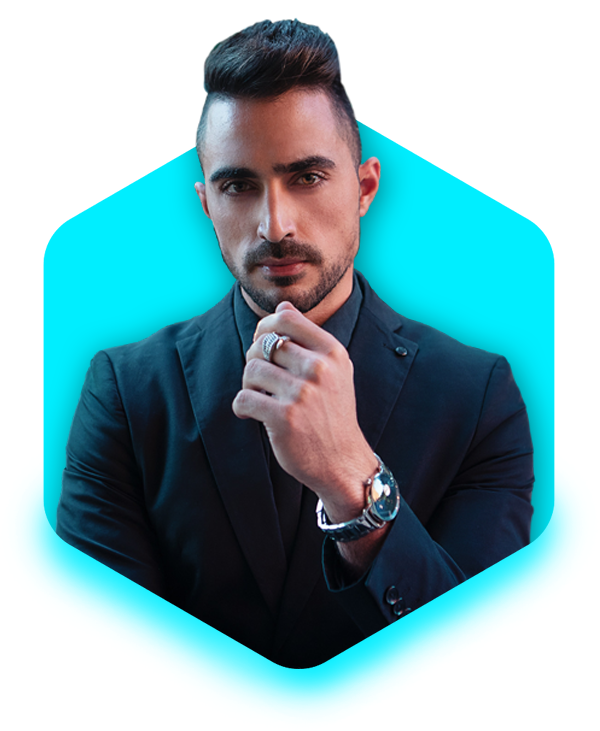
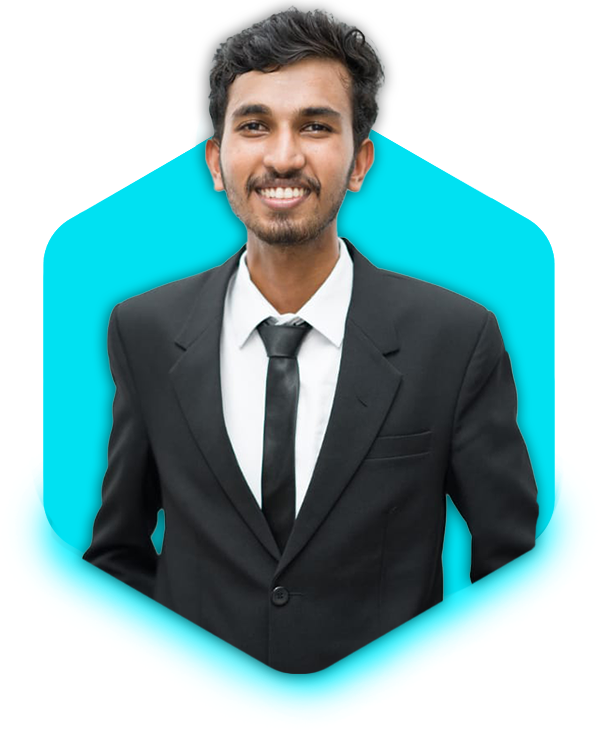
Change images add my skills section

diff --git a/index.html b/index.html
@@ -5,6 +5,7 @@
     <meta name="viewport" content="width=device-width, initial-scale=1.0">
     <title>Pasindu Udana | My Protfolio</title>
     <link href='https://unpkg.com/boxicons@2.1.4/css/boxicons.min.css' rel='stylesheet'>
+    <link rel="stylesheet" href="https://cdnjs.cloudflare.com/ajax/libs/font-awesome/6.0.0/css/all.min.css">
     <link rel="stylesheet" href="style.css">
 </head>
 <body>
@@ -242,6 +243,42 @@
                 </div>
             </div>  
         </section>    
+
+         <section class="skills" id="skills">
+        <h2 class="heading">My <span>Skills</span></h2>
+        
+        <div class="skills-container">
+            <div class="skill-box">
+                <i class="fab fa-js-square"></i>
+                <h3>JavaScript</h3>
+                <p>Experienced in building interactive web applications and implementing client-side functionality.</p>
+            </div>
+            
+            <div class="skill-box">
+                <i class="fab fa-php"></i>
+                <h3>PHP</h3>
+                <p>Proficient in server-side scripting for web development and database interactions.</p>
+            </div>
+            
+            <div class="skill-box">
+                <i class="fab fa-html5"></i>
+                <h3>HTML5</h3>
+                <p>Strong foundation in structuring web content with semantic markup.</p>
+            </div>
+            
+            <div class="skill-box">
+                <i class="fas fa-code"></i>
+                <h3>C++</h3>
+                <p>Skilled in object-oriented programming and algorithm development.</p>
+            </div>
+            
+            <div class="skill-box">
+                <i class="fab fa-java"></i>
+                <h3>Java</h3>
+                <p>Experience in application development and problem-solving using Java.</p>
+            </div>
+        </div>
+    </section>
         
         <section class="projects" id="projects">
             <h2 class="heading">My <span>Projects</span></h2>
@@ -298,6 +335,12 @@
                 </div>
             </div>
         </section>
+      
+
+    <!-- New Skills Section -->
+   
+
+
 
         <section class="contact" id="contact">
             <h2 class="heading">Contact <span>Me</span></h2>

diff --git a/style.css b/style.css
@@ -492,3 +492,51 @@ span{
         margin-top: 2rem;
     }
 }
+
+/* Skills Section */
+.skills {
+    min-height: auto;
+    padding-bottom: 7rem;
+    background: var(--bg-color);
+}
+
+.skills .heading {
+    margin-bottom: 5rem;
+}
+
+.skills-container {
+    display: flex;
+    flex-wrap: wrap;
+    gap: 2rem;
+    justify-content: center;
+}
+
+.skill-box {
+    flex: 1 1 20rem;
+    background: var(-bg-color);
+    padding: 3rem 2rem 4rem;
+    border-radius: 2rem;
+    text-align: center;
+    border: .2rem solid var(--bg-color);
+    transition: .5s ease;
+}
+
+.skill-box:hover {
+    border-color: var(--main-color);
+    transform: scale(1.02);
+}
+
+.skill-box i {
+    font-size: 7rem;
+    color: var(--main-color);
+    margin-bottom: 1rem;
+}
+
+.skill-box h3 {
+    font-size: 2.6rem;
+}
+
+.skill-box p {
+    font-size: 1.6rem;
+    margin: 1rem 0 3rem;
+}
